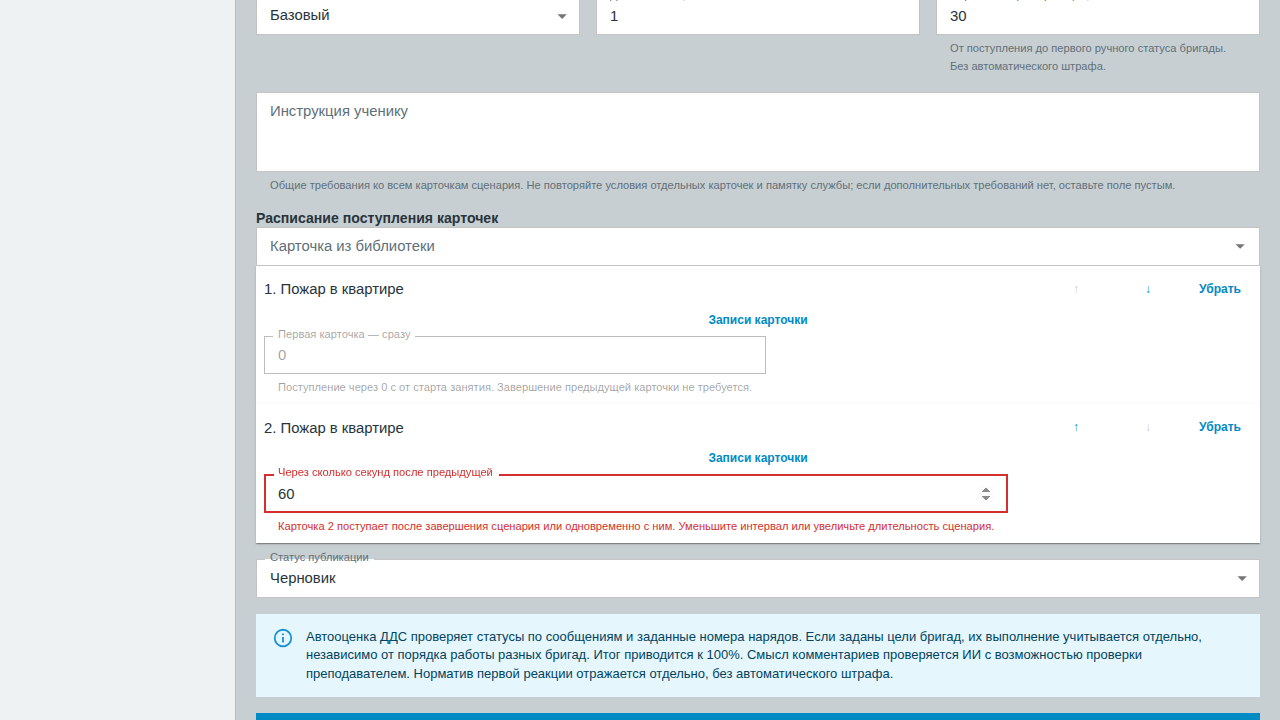
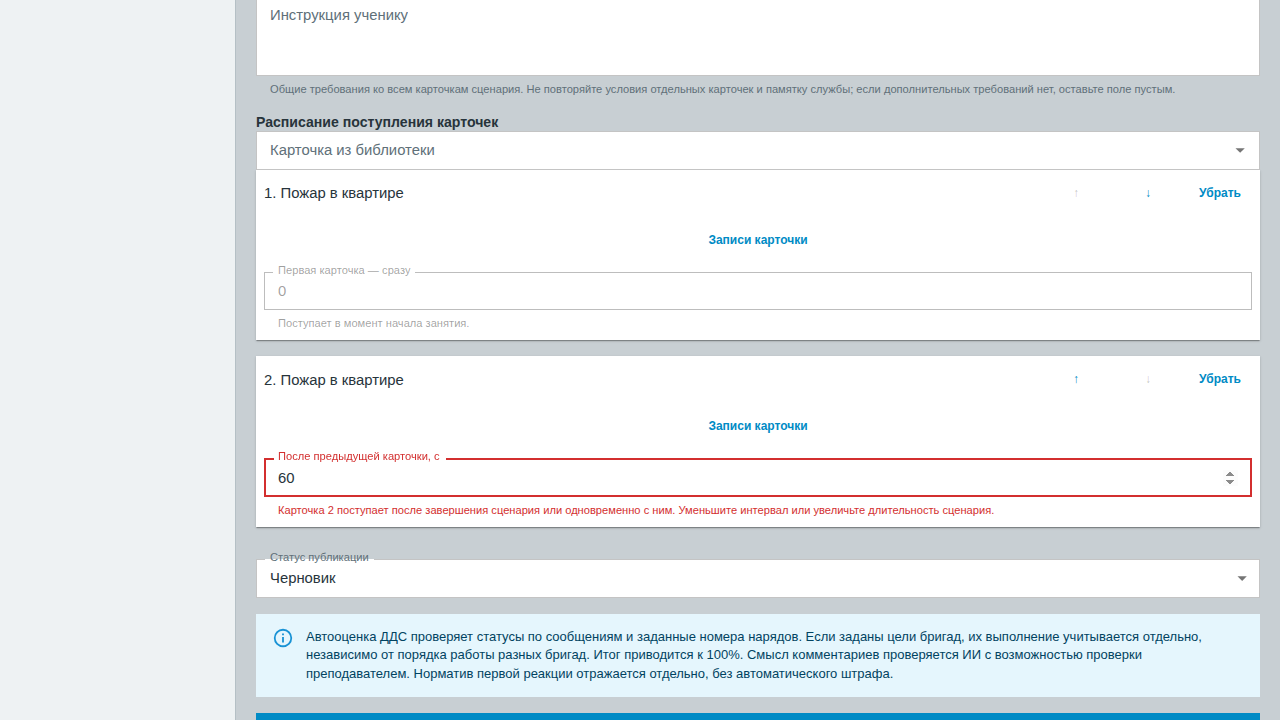
fix(scenarios): separate recordings from arrival fields and clarify timing

diff --git a/112-frontend/e2e/dds-stream.spec.ts b/112-frontend/e2e/dds-stream.spec.ts
@@ -295,6 +295,9 @@ test("teacher edits per-card arrival intervals", async ({ page }) => {
       },
     })),
   };
+  await page.route("**/api/v1/cards/card-*", (r) =>
+    r.fulfill({ json: { audio: { caller_ids: [], crew_variants: [] } } }),
+  );
   await page.route("**/api/v1/scenarios/scenario", (r) =>
     r.fulfill({ json: scenario }),
   );
@@ -306,18 +309,41 @@ test("teacher edits per-card arrival intervals", async ({ page }) => {
   );
   await login(page, "teacher");
   await page.goto("/scenarios/scenario/edit");
-  const delays = page.getByLabel("Через сколько секунд после предыдущей", {
+  const delays = page.getByLabel("После предыдущей карточки, с", {
     exact: true,
   });
   await expect(delays.nth(0)).toHaveValue("40");
   await expect(delays.nth(1)).toHaveValue("90");
   await delays.nth(1).fill("120");
   await expect(
-    page.getByText("Поступление через 160 с", { exact: false }),
+    page.getByText("Итого от начала занятия: 160 с", { exact: false }),
   ).toBeVisible();
   await page.screenshot({
     path: "docs/screenshots/dds-stream/schedule.png",
     fullPage: true,
     animations: "disabled",
   });
+  await page
+    .getByRole("button", { name: "Записи карточки", exact: true })
+    .first()
+    .click();
+  const emptyRecordings = page.getByText("Свои голоса не выбраны.", {
+    exact: false,
+  });
+  await expect(emptyRecordings).toBeVisible();
+  for (const width of [1280, 390]) {
+    await page.setViewportSize({ width, height: 900 });
+    const description = (await emptyRecordings.boundingBox())!;
+    const field = (await page
+      .locator('[data-validation-field="arrival_offsets_seconds.0"]')
+      .boundingBox())!;
+    expect(field.y - description.y - description.height).toBeGreaterThanOrEqual(
+      12,
+    );
+    await page.screenshot({
+      path: `docs/screenshots/dds-stream/schedule-recordings-${width}.png`,
+      fullPage: true,
+      animations: "disabled",
+    });
+  }
 });

diff --git a/112-frontend/src/pages/scenario-editor/ui/ScenarioCardsFields.tsx b/112-frontend/src/pages/scenario-editor/ui/ScenarioCardsFields.tsx
@@ -90,7 +90,7 @@ export function ScenarioCardsFields({
               label={
                 index === 0
                   ? "Первая карточка — сразу"
-                  : "Через сколько секунд после предыдущей"
+                  : "После предыдущей карточки, с"
               }
               value={delays[index]}
               disabled={index === 0}
@@ -98,7 +98,11 @@ export function ScenarioCardsFields({
               onChange={(event) =>
                 onDelayChange(index, Number(event.target.value))
               }
-              helperText={`Поступление через ${offsets[index]} с от старта занятия. Завершение предыдущей карточки не требуется.`}
+              helperText={
+                index === 0
+                  ? "Поступает в момент начала занятия."
+                  : `Отсчёт начинается при поступлении предыдущей карточки, независимо от её завершения. Итого от начала занятия: ${offsets[index]} с.`
+              }
             />
           )}
         </Paper>

diff --git a/112-frontend/e2e/validation-audit.spec.ts b/112-frontend/e2e/validation-audit.spec.ts
@@ -73,15 +73,16 @@ test("DDS schedule and incompatible cards have actionable errors", async ({
   await page
     .getByRole("button", { name: "Сохранить сценарий", exact: true })
     .click();
-  await expect(
-    page.getByLabel("Через сколько секунд после предыдущей"),
-  ).toHaveAttribute("aria-invalid", "true");
+  await expect(page.getByLabel("После предыдущей карточки, с")).toHaveAttribute(
+    "aria-invalid",
+    "true",
+  );
   await expect(page.locator(".form-validation-summary")).toContainText(
     "Карточка 2 поступает",
   );
   expect(saves).toBe(0);
   await shot(page, "schedule");
-  await page.getByLabel("Через сколько секунд после предыдущей").fill("30");
+  await page.getByLabel("После предыдущей карточки, с").fill("30");
   await page
     .getByRole("button", { name: "Сохранить сценарий", exact: true })
     .click();

diff --git a/112-frontend/e2e/editor-state.spec.ts b/112-frontend/e2e/editor-state.spec.ts
@@ -61,7 +61,7 @@ for (const role of ["dds", "operator_112"]) {
     await expect(
       page.getByRole("button", { name: "Добавить карточку", exact: true }),
     ).toHaveCount(0);
-    const delays = page.getByLabel("Через сколько секунд после предыдущей");
+    const delays = page.getByLabel("После предыдущей карточки, с");
     if (role === "dds") {
       await delays.nth(0).fill("45");
       await delays.nth(1).fill("90");

diff --git a/112-frontend/src/pages/scenario-editor/styles/ScenarioEditorPage.ts b/112-frontend/src/pages/scenario-editor/styles/ScenarioEditorPage.ts
@@ -5,7 +5,13 @@ export const styles = {
     gap: 2,
     "& > *": { minWidth: 190, flex: "1 1 190px" },
   } satisfies SxProps<Theme>,
-  paper: { p: 1 } satisfies SxProps<Theme>,
+  paper: {
+    p: 1,
+    mb: 2,
+    display: "flex",
+    flexDirection: "column",
+    gap: 2,
+  } satisfies SxProps<Theme>,
   stack: { alignItems: "center" } satisfies SxProps<Theme>,
   typography: { flex: 1 } satisfies SxProps<Theme>,
 };
